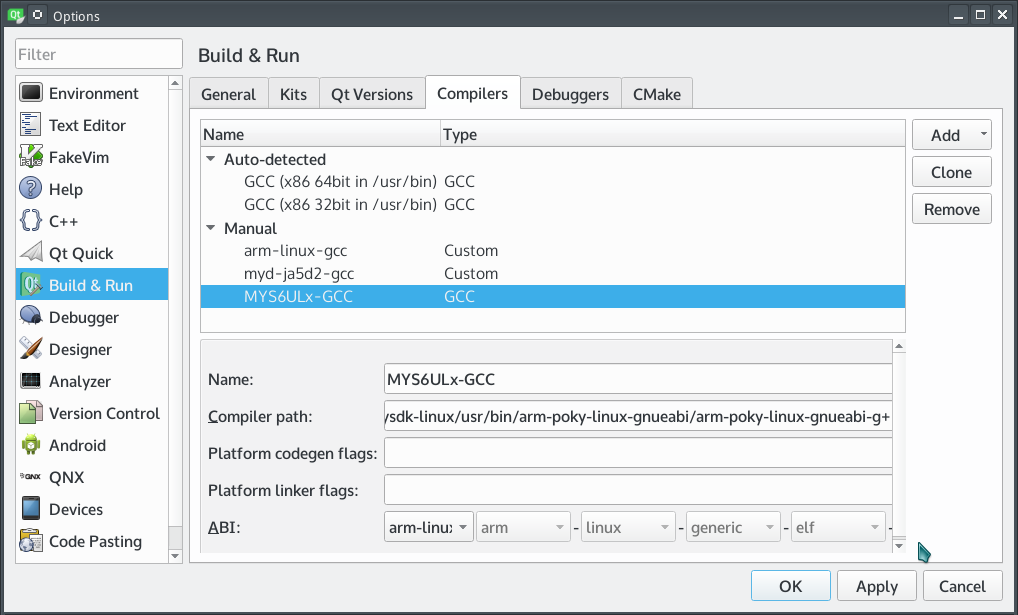
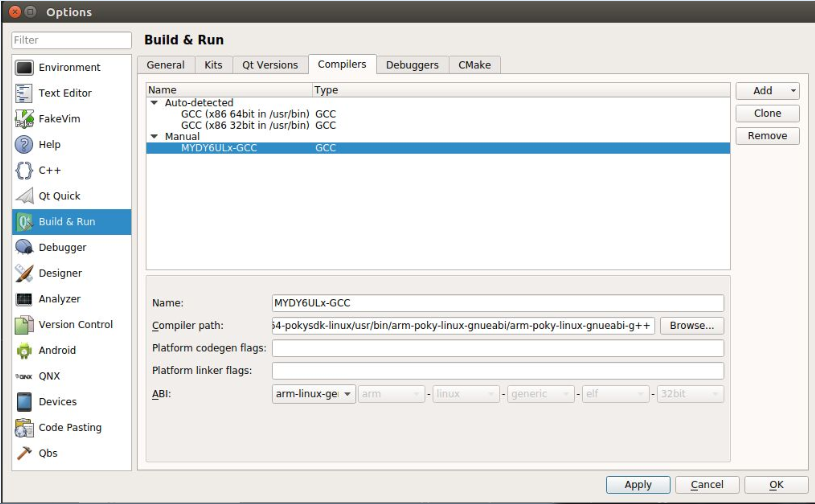
modify qt5

Changed region(s): [[0.0, 0.0, 1.0, 1.0]]

diff --git a/en/Chapter5-2.md b/en/Chapter5-2.md
@@ -1,7 +1,7 @@
 # 5.2 Configure QtCreator
 
 The first step, run QtCreator, followed by "Tool" -> "Options", the Options dialog box appears, click "Build & Run" on the left, right select "Compilers" label.
-Click on the right "Add" button, pop-up drop-down list, select "GCC", fill the following input boxes, "Name" is "MYS6ULx-GCC", click "Compiler path" beside "Browse.." button to choose "arm-poky-linux-gnueabi-g++" file path. In this case, the path is "/opt/myir-imx6ulx-fb/4.1.15-2.0.1/sysroots/x86_64-pokysdk-linux/usr/bin/arm-poky-linux-gnueabi/arm-poky-linux-gnueabi-g++".When fill are complete, click "Apply".
+Click on the right "Add" button, pop-up drop-down list, select "GCC", fill the following input boxes, "Name" is "MYDY6ULx-GCC", click "Compiler path" beside "Browse.." button to choose "arm-poky-linux-gnueabi-g++" file path. In this case, the path is "/opt/myir-imx6ulx-fb/4.1.15-2.0.1/sysroots/x86_64-pokysdk-linux/usr/bin/arm-poky-linux-gnueabi/arm-poky-linux-gnueabi-g++".When fill are complete, click "Apply".
 
 ![](image/5-2-1.png)
 Figure5-1 Config Compiler
@@ -11,12 +11,12 @@ The second step, and then select the "Qt Version" tab, click the right side of t
 ![](image/5-2-2.png)
 Figure5-2 Configure Qt version
 
-The third step, click the "Device" menu on left panel, and click "Add..." button on right panel.Fill those input box, "Name" is "MYS6ULx Board", "Host name" is IP address of target board(alsa fill any one), "Username" is "root".Then clock "Apply" button.
+The third step, click the "Device" menu on left panel, and click "Add..." button on right panel.Fill those input box, "Name" is "MYDY6ULx Board", "Host name" is IP address of target board(alsa fill any one), "Username" is "root".Then clock "Apply" button.
 
 ![](image/5-2-3.png)
 Figure5-3 Configure Qt version
 
-The fourth step, click "Build & Run" menu on left panel will back to "Kit" tab in right panel.The content fill with "Name" is "MYS6ULx-dev-kit", "Device" choose "MYS6ULx Board" option."Sysroot" choose the sysroot of target board.In this case , use "/opt/myir-imx6ulx-fb/4.1.15-2.0.1/sysroots/cortexa7hf-neon-poky-linux-gnueabi"."Compiler" choose "MYS6ULx-GCC" before we configured."Qt version" choose "Qt 5.6.2 (mys6ulx-qt5)" before configured, "Qt mkspec" is "linux-oe-g++".Other use default option, then click"Apply" and "OK" button.
+The fourth step, click "Build & Run" menu on left panel will back to "Kit" tab in right panel.The content fill with "Name" is "MYDY6ULx-dev-kit", "Device" choose "MYDY6ULx Board" option."Sysroot" choose the sysroot of target board.In this case , use "/opt/myir-imx6ulx-fb/4.1.15-2.0.1/sysroots/cortexa7hf-neon-poky-linux-gnueabi"."Compiler" choose "MYDY6ULx-GCC" before we configured."Qt version" choose "Qt 5.6.2 (mys6ulx-qt5)" before configured, "Qt mkspec" is "linux-oe-g++".Other use default option, then click"Apply" and "OK" button.
 
 
 ![](image/5-2-4.png)

diff --git a/zh/Chapter5-2.md b/zh/Chapter5-2.md
@@ -1,7 +1,7 @@
 # 5.2 配置QtCreator
 
 第一步，运行 QtCreator 后，依次点击"Tool"->"Options"，出现选项对话框，在左侧点击"Build & Run"，右边选择"Compilers"标签。
-点击右侧"Add"按钮，弹出下拉列表后，选择"GCC"，在下面填写"Name"为"MYS6ULx-GCC"，"Compiler path"点击旁边的"Browse.."按钮选 择到arm-poky-linux-gnueabi-g++的路径，例子中的路径是"/opt/myir-imx6ulx-fb/4.1.15-2.0.1/sysroots/x86_64-pokysdk-linux/usr/bin/arm-poky-linux-gnueabi/arm-poky-linux-gnueabi-g++"。填写完成后，点击"Apply"。
+点击右侧"Add"按钮，弹出下拉列表后，选择"GCC"，在下面填写"Name"为"MYDY6ULx-GCC"，"Compiler path"点击旁边的"Browse.."按钮选 择到arm-poky-linux-gnueabi-g++的路径，例子中的路径是"/opt/myir-imx6ulx-fb/4.1.15-2.0.1/sysroots/x86_64-pokysdk-linux/usr/bin/arm-poky-linux-gnueabi/arm-poky-linux-gnueabi-g++"。填写完成后，点击"Apply"。
 
 ![](image/5-2-1.png)
 图5-2-1 配置编译器
@@ -11,12 +11,12 @@
 ![](image/5-2-2.png)
 图5-2-2 配置Qt版本
 
-第三步，选择左侧"Device"，点击右边的"Add..."按钮，填写内容"Name"为"MYS6ULx Board"，"Host name"为开发板的IP地址(可以暂时填写任意一个地址)，"Username"为"root"，然后点击"Apply"。
+第三步，选择左侧"Device"，点击右边的"Add..."按钮，在弹出的对话框中选择Generic Linux Device,再填写内容"Name"为"MYDY6ULx Board"，"Host name"为开发板的IP地址(可以暂时填写任意一个地址)，"Username"为"root"，然后点击"Apply"。
 
 ![](image/5-2-3.png)
 图5-2-3 配置设备
 
-第四步，点击左侧"Build & Run"回到"Kits"标签下，"Name"为"MYS6ULx-dev-kit"，"Device"选择"MYS6ULx Board"选项了。"Sysroot"选择目标设备的系统目录，这里以"/opt/myir-imx6ulx-fb/4.1.15-2.0.1/sysroots/cortexa7hf-neon-poky-linux-gnueabi"为例。"Compiler"选择之前配置的名称"MYS6ULx-GCC"，"Qt version"选择之前配置的名称"Qt 5.6.2 (mys6ulx-qt5)"，"Qt mkspec"填写为"linux-oe-g++"。其它默认即可，最后点击"Apply"和"OK"按钮。
+第四步，点击左侧"Build & Run"回到"Kits"标签下，"Name"为"MYDY6ULx-dev-kit"，"Device"选择"MYDY6ULx Board"选项了。"Sysroot"选择目标设备的系统目录，这里以"/opt/myir-imx6ulx-fb/4.1.15-2.0.1/sysroots/cortexa7hf-neon-poky-linux-gnueabi"为例。"Compiler"选择之前配置的名称"MYDY6ULx-GCC"，"Qt version"选择之前配置的名称"Qt 5.6.2 (mys6ulx-qt5)"，"Qt mkspec"填写为"linux-oe-g++"。其它默认即可，最后点击"Apply"和"OK"按钮。
 
 ![](image/5-2-4.png)
 图5-2-4 配置套件

diff --git a/en/Chapter5-3.md b/en/Chapter5-3.md
@@ -4,7 +4,7 @@ In order to test previous configure is correct, we support a Qt example.You just
 
 The first step, in the menu bar, select "File" -> "Open File or Project", in the open dialog box, browse and select "hellowrold" example project, choose "helloworld.pro" file,  click "Open" button.
 
-The second step, choose "Projects" icon in left panel.The right panel will switch to "Build & Run" tab of "helloworld" project, click "Add kit" pop-down list, and choose "MYS6ULx-dev-kit" option.Then the "helloworld" project will use "MYS6ULx-dev-kit" option to build it. 
+The second step, choose "Projects" icon in left panel.The right panel will switch to "Build & Run" tab of "helloworld" project, click "Add kit" pop-down list, and choose "MYDY6ULx-dev-kit" option.Then the "helloworld" project will use "MYDY6ULx-dev-kit" option to build it. 
 
 ![](image/5-3-1.png)
 Figure5-3-1 config building option
@@ -14,11 +14,11 @@ Step 3, click the menu bar "Build" -> "Build Project hellowrld" button, you can 
 ![](image/5-3-2.png)
 Figure5-3-2 Compling output
 
-QtCreator build helloworld project, compiled binary files stored in the "~/build-helloworld-MYS6ULx_dev_kit-Debug/" directory, you can use the file command to see whether is the compiler for the ARM architecture.
+QtCreator build helloworld project, compiled binary files stored in the "~/build-helloworld-MYDY6ULx_dev_kit-Debug/" directory, you can use the file command to see whether is the compiler for the ARM architecture.
 
 ```
-$ file ~/build-helloworld-MYS6ULx_dev_kit-Debug/helloworld
-/home/kevinchen/build-helloworld-MYS6ULx_dev_kit-Debug/
+$ file ~/build-helloworld-MYDY6ULx_dev_kit-Debug/helloworld
+/home/kevinchen/build-helloworld-MYDY6ULx_dev_kit-Debug/
 helloworld: ELF 32-bit LSB executable, ARM, EABI5 version 1 
 (GNU/Linux), dynamically linked, interpreter /lib/ld-linux-
 armhf.so.3, for GNU/Linux 2.6.32, BuildID[sha1]=

diff --git a/zh/Chapter5-3.md b/zh/Chapter5-3.md
@@ -4,7 +4,7 @@
 
 第一步，在菜单栏选择"File"->"Open File or Project"，在打开的对话框中，浏览到"helloword"例程的目录下，选择"helloworld.pro"文件，点击"Open"按钮。
 
-第二步，项目打开后，在左侧菜单列中，选择"Projects"图标，右侧界面切换为"helloworld"项目的"Build & Run"标签下，点击"Add kit"下拉列表，选择"MYS6ULx-dev-kit"选项，这样"helloworld"项目就会使用"MYS6ULx-dev-kit"的相关配置构建应用。
+第二步，项目打开后，在左侧菜单列中，选择"Projects"图标，右侧界面切换为"helloworld"项目的"Build & Run"标签下，点击"Add kit"下拉列表，选择"MYDY6ULx-dev-kit"选项，这样"helloworld"项目就会使用"MYDY6ULx-dev-kit"的相关配置构建应用。
 
 ![](image/5-3-1.png)
 图5-3-1 选择构建配置
@@ -14,11 +14,11 @@
 ![](image/5-3-2.png)
 图5-3-2 编译输出结果
 
-QtCreator 构建 helloworld 项目后，编译好的二进制文件存放在"~/build-helloworld-MYS6ULx_dev_kit-Debug/"目录下，可以使用 file 命令查看，是否编译为 ARM 架构。
+QtCreator 构建 helloworld 项目后，编译好的二进制文件存放在"~/build-helloworld-MYDY6ULx_dev_kit-Debug/"目录下，可以使用 file 命令查看，是否编译为 ARM 架构。
 
 ```
-file ~/build-helloworld-MYS6ULx_dev_kit-Debug/helloworld
-/home/kevinchen/build-helloworld-MYS6ULx_dev_kit-Debug/helloworld: 
+file ~/build-helloworld-MYDY6ULx_dev_kit-Debug/helloworld
+/home/kevinchen/build-helloworld-MYDY6ULx_dev_kit-Debug/helloworld: 
 ELF 32-bit LSB executable, ARM, EABI5 version 1 (GNU/Linux), 
 dynamically linked, interpreter /lib/ld-linux-armhf.so.3, 
 for GNU/Linux 2.6.32, 

diff --git a/zh/Chapter5-1.md b/zh/Chapter5-1.md
@@ -12,8 +12,7 @@ sudo 03-Tools/Qt/qt-creator-opensource-linux-x86_64-4.1.0.run
 安装完成后，为了让QtCreator使用Yocto的SDK工具，需要对QtCreator加入环境变量。修改"/opt/qtcreator-4.1.0/bin/qtcreator.sh"文件，在"#! /bin/sh"前加入Yocto的环境配置即可，参考如下：
 
 ```
-source /opt/myir-imx6ulx-fb/4.1.15-2.0.1/\
-environment-setup-cortexa7hf-neon-poky-linux-gnueabi
+source /opt/myir-imx6ulx-fb/4.1.15-2.0.1/environment-setup-cortexa7hf-neon-poky-linux-gnueabi
 #! /bin/sh
 
 # Use this script if you add paths to LD_LIBRARY_PATH

diff --git a/en/Chapter5-1.md b/en/Chapter5-1.md
@@ -15,8 +15,7 @@ In order to QtCreator use Yocto SDK, we need add environment to QtCreator, modif
 
 ```
 $ vi /opt/qtcreator-4.1.0/bin/qtcreator.sh
-source /opt/myir-imx6ulx-fb/4.1.15-2.0.1/environment-setup-\
-cortexa7hf-neon-poky-linux-gnueabi
+source /opt/myir-imx6ulx-fb/4.1.15-2.0.1/environment-setup-cortexa7hf-neon-poky-linux-gnueabi
 #! /bin/sh
 
 # Use this script if you add paths to LD_LIBRARY_PATH
